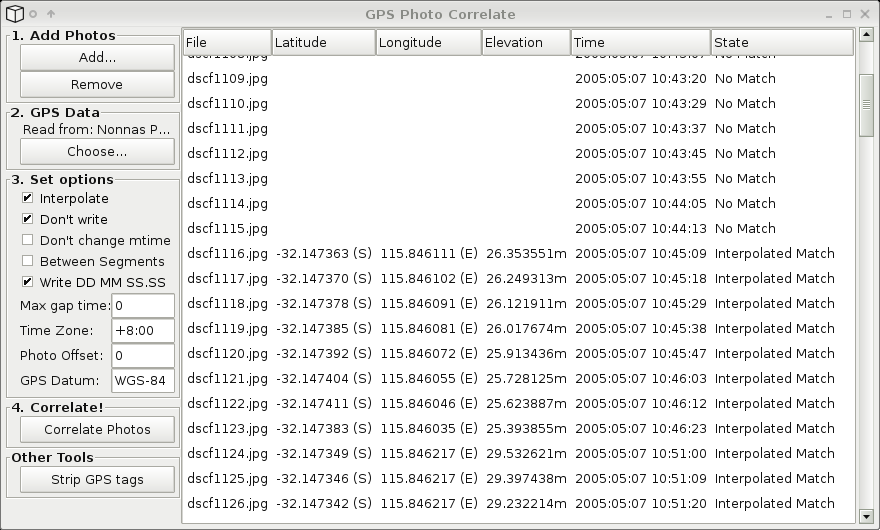
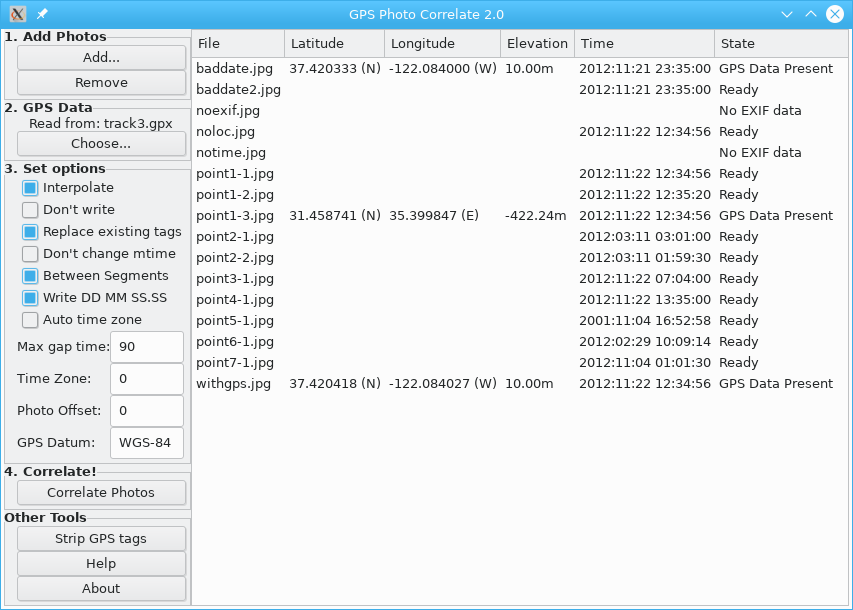
Update to git HEAD.

Changed region(s): [[0.0, 0.0, 1.0, 1.0]]

diff --git a/concepts.html b/concepts.html
@@ -12,9 +12,11 @@
 
 <h2>Step 1: Taking photos and recording GPS data.</h2>
 
-<p>Before you can correlate any photos with GPS data, you first have to have some photos and some GPS data. This generally involves walking/driving/going somewhere, taking photos, and taking a GPS (or GPS like device) with you.</p>
+<p>Before you can correlate any photos with GPS data, you first have to have some photos and some GPS data. This generally involves walking/driving/going somewhere, taking photos, and taking a GPS or smartphone tracking app with you.</p>
 
-<p>Most cheap GPS devices have a "tracklog" facility that record where you have been. The resolution of these tracks is widely variable - my <a href="http://www.garmin.com/products/etrex/">Garmin eTrex</a> GPS records up to 1600 data points, at around 20 metres between each point. This works out to travelling about 500 kilometres (by car) or 50 kilometres (on foot) before you run out of memory. (These numbers vary very much depending on many factors.)</p>
+<p>Just about all smartphones these days have GPS built-in and it just takes an tracking app to do the job. There are a multitude of apps for all popular smartphone platforms, including good free ones. They often store a track in GPX format that you can download to your computer and use directly. Some will upload your track to a cloud service that you can download easily from a web site.</p>
+
+<p>Another option is a ruggedized standalone GPS unit. Most of these have a "tracklog" facility that record where you have been. The resolution of these tracks is widely variable - my old Garmin eTrex GPS records up to 1600 data points, at around 20 metres between each point. This works out to travelling about 500 kilometres (by car) or 50 kilometres (on foot) before you run out of memory. (These numbers vary very much depending on many factors.)</p>
 
 <p>Other GPS devices will vary in their capacity. If you are using a GPS device made only for a computer, or have attached your GPS device to a computer, you may wish to log the data on the computer. In this case, you will probably end up logging the one second fixes, which results in a fair bit of data (nothing excessive), but very accurate results.</p>
 
@@ -22,29 +24,33 @@
 
 <p>Besides that, take photos as you normally would. The correlation program matches photos to GPS data by their timestamp, so it would be a good idea to synchronise the cameras time to the time from the GPS before you start taking photos. (Not the other way around: the GPS gets its time from the satellites, which means that it is probably correct... and most GPSs will not allow you to set their time, anyway).</p>
 
-<p>The photos will have to be tagged with "EXIF tags", which describe metadata about the photo, including the date and time. These tags are embedded in the photos themselves. That is pretty much standard for digital cameras nowadays, however, some very very very old digital cameras (like the ancient floppy-disk Sony Mavica that a family member owns) don't store EXIF tags. These will not work with this program. There are probably ways around this, though - but they are outside what I am talking about here. (Give me half a second, and I'd start talking about writing a script to grab... no, better stop there...)</p>
+<p>The photos will have to be tagged with "EXIF tags", which describe metadata about each photo, including the date and time it was taken. These tags are embedded in the photos themselves. That is pretty much standard for digital cameras nowadays, however, some very very very old digital cameras (like the ancient floppy-disk Sony Mavica that a family member owns) don't store EXIF tags. These will not work with this program. There are probably ways around this, though - but they are outside what I am talking about here. (Give me half a second, and I'd start talking about writing a script to grab... no, better stop there...)</p>
 
-<p>When you are finished the photo shoot, download the photos as normal and get ready. Mind that any permanent rotations or editing do not remove the EXIF tags.</p>
+<p>When you are finished the photo shoot, download the photos as normal and get ready. Mind that any permanent rotations or editing you do do not remove the EXIF tags.</p>
 
 <h3>What you need to know:</h3>
 
 <ul>
-<li><b>Synchronise your cameras time from the GPS time.</b> Don't ask, just do it. And do it just before your photo shoot.</li>
-<li><b>Use a GPS that has a tracklog capability.</b> Most do - although the quality/resolution varies.</li>
-<li><b>Take your GPS with you, and keep it close to the camera.</b> GPS is accurate down to several meters, so use your discretion.</li>
+<li><b>Synchronise your camera's time from the GPS time.</b> Don't ask, just do it. And do it just before your photo shoot. If you forget, take a picture of your GPS screen before you're done. You can calculate the time offset later by comparing the EXIF time with the time on the screen.</li>
+<li><b>Use a GPS or an app that has a tracklog capability.</b> Most do - although the quality/resolution varies.</li>
+<li><b>Take your GPS with you, and keep it close to the camera.</b> GPS is accurate down to several meters, so use your discretion as to what "close" means.</li>
 </ul>
 
 <hr>
 
 <h2>Step 2: Getting the GPS data ready.</h2>
 
-<p>The GPS correlate program accepts GPS data in the GPX format: an open XML format. The format is quite arbitrary, and, naturally, everyone has their own GPS file format. So, in that way, this program is no exception.</p>
+<p>The GPS correlate program accepts GPS data in the GPX format: an open XML format. The format is quite arbitrary, and, naturally, everyone has their own GPS file format. So, in that way, this program is no exception. But, since that's the only format it supports, you'll have to arrange that your track information is made available in a GPX file.</p>
 
-<p>Exactly how you will get the GPS data from a discrete device is very much device dependant. Many devices have serial cables or USB cables to download the data (although the USB cables are often glorified USB-to-serial converters). What format it will turn out as is also the big question. I personally recommend GPSBabel, which can convert between many formats (thus translating from whatever strange one your downloading method/program produces) and can also download from Garmin and Magellan GPS devices directly (so you can download straight to GPX and retain lots of useful metadata, like track segments).</p>
+<p>A smartphone app might have an export or share function to create a track file. Once you do that, you attach your phone to a computer and browse to the location with the file. Or, the app might upload your tracks to a cloud service (automatically or on request). In that case, you'll need to log in to the web site on your computer and use the download function.</p>
 
-<p>If you logged the GPS data with a computer... well, it could be any format, depending on how it is logged. One trick would be to log the NMEA sentences as they came from the GPS directly into a file. Once the logging is done, GPSBabel can convert these NMEA sentences directly into GPX format. Usually these are one second fixes, so this would yield very good results - however, lugging around a laptop to log the data might not be convenient. A PDA might be convenient, though...</p>
+<p>Exactly how you will get the GPS data from a discrete device is very much device dependant. Many devices have USB cables cables to download the data (although the USB cables are often glorified USB-to-serial converters). What format it will turn out as is also the big question. I personally recommend GPSBabel, which can convert between many formats (thus translating from whatever strange one your downloading method/program produces) and can also download from Garmin and Magellan GPS devices directly (so you can download straight to GPX and retain lots of useful metadata, like track segments).</p>
 
-<p>The other thing to know about GPX is that is stores data quite cleverly, separating tracks into "track segments". This can be explained quite simply with an example. When I drive through a tunnel with my GPS, it has no reception in the tunnel. My GPS records this lack of signal on the map by not showing a track between the points where I was in the tunnel. GPSBabel correctly reads this and enters this in the GPX file by separating the segments with "track segments". Prior to version 1.1, this program ignored track segments and just hauled out points and considered them to be a single track. So if a photo was taken in between the time where there was no GPS data, you would not get a correct answer (depending on the situation). Now, the program will not match a photo between track segments. You can, however, disable this functionality, and still match between track segments.</p>
+<p>If you logged the GPS data with a computer... well, it could be any format, depending on how it is logged. One trick would be to log the NMEA sentences as they came from the GPS directly into a file. Once the logging is done, GPSBabel can convert these NMEA sentences directly into GPX format. Usually these are one second fixes, so this would yield very good results - however, lugging around a laptop to log the data might not be convenient.</p>
+
+<p>The other thing to know about GPX is that is stores data quite cleverly, separating tracks into "track segments". This can be explained quite simply with an example. When I drive through a tunnel with my GPS, it has no reception in the tunnel. My GPS records this lack of signal on the map by not showing a track between the points where I was in the tunnel. GPSBabel correctly reads this and enters this in the GPX file by separating the segments with "track segments".</p>
+
+<p>Prior to version 1.1, this program ignored track segments and just hauled out points and considered them to be a single track. So if a photo was taken in between the time where there was no GPS data, you would not get a correct answer (depending on the situation). In current versions, the program will not match a photo between track segments. You can, however, choose to revert this behaviour. If the track was segmented during a period of steady, linear movement (like driving through a straight tunnel), then the interpolated position between segments will still end up being pretty accurate. Also, some apps will stop logging the position if you stay still for a while. The end of one segment will then be the same location as the beginning of the next.  In those cases it makes sense to interpolate between segments.</p>
 
 <h3>What you need to know:</h3>
 
@@ -59,15 +65,15 @@
 
 <h2>Step 3: Getting ready to correlate.</h2>
 
-<p>To correlate, you need photos and GPS data. I assume the last two steps would have resulted you with a series of JPEG files with EXIF tags, and a GPX file with a "tracklog" of where you have been when you took the photos.</p>
+<p>To correlate, you need photos and GPS data. I assume the last two steps would have resulted in a series of JPEG files with EXIF tags, and a GPX file with a "tracklog" of where you have been when you took the photos.</p>
 
-<p>The last thing you need to know is the timezone that the camera is set to. GPS data is always in UTC, so when we correlate the photos, we need to know how much to add or subtract to the photos time to make the photos time UTC. Just "know" this value, there are places to add this in in the programs.</p>
+<p>The last thing you need to know is the timezone that the camera is set to. GPS data is always in UTC, so when we correlate the photos, we need to know how much to add or subtract to the photos time to make the photo's time UTC. Just "know" this value; there are places to enter this in in the program.</p>
 
-<p>(This also assumes that the camera is set for local time where you are taking the photos. It is really arbitrary, so long as you know the difference between your cameras time and UTC. If you really wanted, just set the camera to UTC and be done with it... although that's not so friendly when you try to use the EXIF data for other things. Up to you.)</p>
+<p>(This also assumes that the camera is set for local time where you are taking the photos. It is really arbitrary, so long as you know the difference between your camera's time and UTC. If you really wanted, just set the camera to UTC and be done with it... although that's not so friendly when you try to use the EXIF data for other things. Up to you.)</p>
 
-<p>As an example, here in Perth, Western Australia, the timezone is +8:00. So that is the value that I use when correlating the photos.</p>
+<p>As an example, here in Perth, Western Australia, the timezone is +8:00. So that is the value that I use when correlating the photos.  But since version 2.0, you usually don't need to worry about time zones. The program will automatically choose one by assuming that the camera's time is the same as the computer's time. This breaks down when you go on vacation in another time zone and change the camera's time to match, then go home and correlate your photos. You'll be using the wrong time zone offset and correlation won't work properly. Just disable automatic time zone selection in this case and give the offset yourself.</p>
 
-<p>Since 1.5.4, there is an option to add an offset to the photo time to make it match up with GPS data. An example case is where you take a photo of your GPS showing the current time. You can use this to calculate the difference between the GPSs time and the photos time.</p>
+<p>There is an option to add an offset to the photo time to make it match up with GPS data. An example case is where you forget to set the camera clock so you take a photo of your GPS screen showing the current time. You can use this to calculate the difference between the GPS' time and the photos time.</p>
 
 <p>Example calculations:</p>
 <pre>GPS Time in Photo:  10:10:10
@@ -76,36 +82,37 @@ GPS - Photo:             +40
 
 GPS Time in Photo:  10:10:10
 Timestamp on Photo: 10:11:30
-GPS - Photo:             -80</pre>
+GPS - Photo:             -80
+</pre>
 
-<p>The value determined in the above examples becomes the "Photo offset" time, in seconds, which is added to the photos timestamp before the correlation is performed.</p>
+<p>The value determined in the above examples becomes the "Photo offset" time, in seconds, which is added to the photo's timestamp before the correlation is performed.</p>
 
 <h3>What you need to know:</h3>
 
 <ul>
 <li><b>The timezone the camera was set to when taking photos.</b> In hours and minutes, for example: +8:00.</li>
-<li><b>As of 1.5.4, you can fine tune the offset between the GPS time and the Photos time.</b> Use the photo offset function to set this.</li>
+<li><b>You can fine tune the offset between the GPS time and the photo's time.</b> Use the photo offset function to set this.</li>
 </ul>
 
 <hr>
 
 <h2>Step 4: Correlation.</h2>
 
-<p>Time to correlate! Exactly how this is performed depends on whether or not you use the <a href="gui.html">GUI version</a> (prettier) or the <a href="command.html">command line version</a> (scriptable).</p>
+<p>Time to correlate! Exactly how this is performed depends on whether or not you use the <a href="gui.html">GUI version</a> (prettier) or the <a href="gpscorrelate.html">command line version</a> (scriptable).</p>
 
-<p>Now there are a few options to consider when deciding how to allow the program to determine exactly the location at which the photo was taken. The program works down to the second. If you have one second GPS fixes available, then the photos will be matched exactly with a point having exactly the same timestamp. As this is the accuracy of the camera, and the accuracy of the GPS - you can not get more accurate than this with the given equipment.</p>
+<p>Now there are a few options to consider when deciding how to allow the program to determine exactly the location at which the photo was taken. The program works down to the second. If you have one second GPS fixes available, then the photos will be matched exactly with a point having exactly the same timestamp. As this is the accuracy of the camera, and the accuracy of the GPS - you can not get much more accurate than this with the given equipment.</p>
 
-<p>When there is less than one second data available, there are a few options available to make the results more accurate. By default, if the program finds photos between points, it will linearly interpolate between the points to determine the correct location of the photo.</p>
+<p>When there is less than one second data rate available, there are a few options available to make the results more accurate. By default, if the program finds photos between points, it will linearly interpolate between the points to determine the correct location of the photo.</p>
 
-<p>You may not wish to allow the interpolation, for whatever reason. If you disable interpolation, then the program will instead "round" to the nearest point. That means that the photo will be set to have the location that is the recorded closest fix in time. (Rounding down if you manage to exactly center it.)</p>
+<p>You may not wish to allow the interpolation, for whatever reason. If you disable interpolation, then the program will instead "round" to the nearest point. That means that the photo will be set to have the location that is the recorded closest fix in time (rounding down if you manage to exactly center it).</p>
 
-<p>The final major setting has many names, of which I can not decide the best one for. Sometimes I call this "feather time", and other times I call this "max distance". In any event, this setting, specified in seconds, defines the furthest time from any recorded GPS point that a photo will be matched. For example, if two GPS data points are 15 minutes apart, and you took a photo in the middle, you may not wish to match this, as the camera might well have been somewhere else. In this case, set the "feather time" to the maximum time from a recorded point that you want a photo matched. In the above example, you might set it to 60 seconds, if you know how often your GPS is likely to take another data point.</p>
+<p>The final major setting has many names, of which I can not decide the best one for. Sometimes I call this "feather time", and other times I call this "max distance". In any event, this setting, specified in seconds, defines the furthest time from any recorded GPS point that a photo will be matched. For example, if two GPS data points are 15 minutes apart, and you took a photo in the middle, you may not wish to match this, as the camera might well have been somewhere else. In this case, set the "max distance" to the maximum time from a recorded point that you want a photo matched. In the above example, you might set it to 60 seconds, if you know how often your GPS is likely to take another data point. Some GPS trackers stop recording location points if you stop moving, in which case you can still get accurate correlation results even with a very large "max distance".</p>
 
 <h3>What you need to know:</h3>
 
 <ul>
 <li><b>You can use the <a href="gui.html">GUI version</a> if that suits you better.</b></li>
-<li><b>Or there is always the dependable <a href="command.html">command line</a> version.</b></li>
+<li><b>Or there is always the dependable <a href="gpscorrelate.html">command line</a> version.</b></li>
 <li><b>By default, the program linearly interpolates.</b> If disabled, it rounds to the nearest point.</li>
 <li><b>"Feather time" or "max distance", in seconds</b> is the maximum time from a data point that a photo will be matched.</li>
 </ul>

diff --git a/fr/gui.html b/fr/gui.html
@@ -12,47 +12,47 @@
 
 <h2>La fenêtre de correlation</h2>
 
-<img src="https://raw.github.com/freefoote/gpscorrelate/master/doc/corr.png" alt="La fenêtre de correlation" width="880" height="530">
+<img src="corr.png" alt="La fenêtre de correlation" width="968" height="610">
 
 <h2>Mode d'emploi de la fenêtre de correlation</h2>
 
 <h3>Étape 1 : ajouter des photos</h3>
 
-<p>Le bouton <b>«&nbsp;Add photos…&nbsp;»</b> permet de sélectionner des photos à ajouter à la liste. Vous pouvez sélectionner plusieurs photos en une seule fois à partir de la boîte de dialogue qui s’affiche. Une fois que vous avez choisi les photos que vous voulez, cliquez sur «&nbsp;Ouvrir&nbsp;» pour les sélectionner. Leurs balises EXIF seront examinées puis elles seront ajoutées à la liste. Si elles ont déjà des données GPS EXIF, celles-ci seront affichées dans la fenêtre. Sinon, vous verrez simplement l’horodatage des photos et leur statut.</p>
+<p>Le bouton <b>«&nbsp;Ajouter des photos…&nbsp;»</b> permet de sélectionner des photos à ajouter à la liste. Vous pouvez sélectionner plusieurs photos en une seule fois à partir de la boîte de dialogue qui s’affiche. Une fois que vous avez choisi les photos que vous voulez, cliquez sur «&nbsp;Ouvrir&nbsp;» pour les sélectionner. Leurs balises EXIF seront examinées puis elles seront ajoutées à la liste. Si elles ont déjà des données GPS EXIF, celles-ci seront affichées dans la fenêtre. Sinon, vous verrez simplement l’horodatage des photos et leur statut.</p>
 
-<p>Sélectionner une photo ou plusieurs photos dans la liste sur la droite et cliquer sur <b>«&nbsp;Remove&nbsp;»</b> supprime celle(s)-ci de la liste.</p>
+<p>Sélectionner une photo ou plusieurs photos dans la liste sur la droite et cliquer sur <b>«&nbsp;Retirer&nbsp;»</b> supprime celle(s)-ci de la liste.</p>
 
 <h3>Étape 2: Les données GPS</h3>
 
-<p>Cliquer sur le bouton <b>«&nbsp;Choose…&nbsp;»</b> fait apparaître une boîte de dialogue demandant de sélectionner le fichier GPX à partir duquel le programme peut lire des données GPS. Une fois sélectionné il est chargé en mémoire. Pendant le chargement s'affiche une boîte de dialogue vous demandant de patienter puis, le chargement terminé, le nom du fichier apparaît au-dessus du bouton.</p>
+<p>Cliquer sur le bouton <b>«&nbsp;Choisir…&nbsp;»</b> fait apparaître une boîte de dialogue demandant de sélectionner le fichier GPX à partir duquel le programme peut lire des données GPS. Une fois sélectionné il est chargé en mémoire. Pendant le chargement s'affiche une boîte de dialogue vous demandant de patienter puis, le chargement terminé, le nom du fichier apparaît au-dessus du bouton.</p>
 
 <h3>Étape 3: Établir les options</h3>
 
-<p>La case <b>«&nbsp;Interpolate&nbsp;»</b> définit si oui ou non le programme peut interpoler entre les points GPS. Par défaut, cette case est cochée. Sa désactivation implique au contraire le choix du point GPS le plus proche.</p>
+<p>La case <b>«&nbsp;Interpoler&nbsp;»</b> définit si oui ou non le programme peut interpoler entre les points GPS. Par défaut, cette case est cochée. Sa désactivation implique au contraire le choix du point GPS le plus proche.</p>
 
-<p>La case <b>«&nbsp;Don't write&nbsp;»</b> si elle est cochée, empêche l’enregistrement des tags EXIF GPS dans les photos. Cependant, la localisation est affichée dans la liste, ce qui permet de vérifier préalablement les résultats de la corrélation.</p>
+<p>La case <b>«&nbsp;Ne pas écrire&nbsp;»</b> si elle est cochée, empêche l’enregistrement des tags EXIF GPS dans les photos. Cependant, la localisation est affichée dans la liste, ce qui permet de vérifier préalablement les résultats de la corrélation.</p>
 
-<p>La case <b>«&nbsp;Don't change mtime&nbsp;»</b> si cochée, inhibe la mise à jour de la date de modification des fichiers quand les données EXIF GPS sont enregistrées.</p>
+<p>La case <b>«&nbsp;Ne pas changer le mtime&nbsp;»</b> si cochée, inhibe la mise à jour de la date de modification des fichiers quand les données EXIF GPS sont enregistrées.</p>
 
-<p>La case <b>«&nbsp;Between Segments&nbsp;»</b> si elle est cochée, ignore les segments de piste, et permet la correspondance des photos entre des points de segments de piste différents. Normalement les segments de piste correspondent à différentes sessions d’enregistrement du GPS, et l’interpolation entre des segments de piste pourrait bien donner une position ne correspondant à aucune données.</p>
+<p>La case <b>«&nbsp;Entre les segments&nbsp;»</b> si elle est cochée, ignore les segments de piste, et permet la correspondance des photos entre des points de segments de piste différents. Normalement les segments de piste correspondent à différentes sessions d’enregistrement du GPS, et l’interpolation entre des segments de piste pourrait bien donner une position ne correspondant à aucune données.</p>
 
-<p>La case <b>«&nbsp;Write DD&nbsp;MM&nbsp;SS.SS&nbsp;»</b> si décochée, va forcer l’écriture de la Longitude et de la Latitude selon l'ancien format DD&nbsp;MM.MM. La valeur par défaut est maintenant d’écrire en DD&nbsp;MM&nbsp;SS.SS</p>
+<p>La case <b>«&nbsp;Écrire en DD&nbsp;MM&nbsp;SS.SS&nbsp;»</b> si décochée, va forcer l’écriture de la Longitude et de la Latitude selon l'ancien format DD&nbsp;MM.MM. La valeur par défaut est maintenant d’écrire en DD&nbsp;MM&nbsp;SS.SS</p>
 
-<p>La zone <b>«&nbsp;Max gap time&nbsp;»</b> indique l’écart de temps maximum entre un point GPS et une photo pour établir une corrélation. Exprimé en secondes.</p>
+<p>La zone <b>«&nbsp;Écart de temps maximum&nbsp;»</b> indique l’écart de temps maximum entre un point GPS et une photo pour établir une corrélation. Exprimé en secondes.</p>
 
-<p>La zone <b>«&nbsp;Time Zone&nbsp;»</b> spécifie le fuseau horaire utilisé lors de la prise des photos, de sorte que les données de temps de celles-ci puissent être ajustées pour correspondre aux données GPS.</p>
+<p>La zone <b>«&nbsp;Fuseau horaire&nbsp;»</b> spécifie le fuseau horaire utilisé lors de la prise des photos, de sorte que les données de temps de celles-ci puissent être ajustées pour correspondre aux données GPS.</p>
 
-<p>La zone <b>«&nbsp;Photo Offset&nbsp;»</b> spécifie un décalage en nombre de secondes à ajouter aux photos pour les faire correspondre aux données GPS (synchronisation). Voir la page <a href="concepts.html">Documentation de GPS Correlate&nbsp;: les concepts</a> pour comprendre l’intérêt de ce paramètre.</p>
+<p>La zone <b>«&nbsp;Décalage des photos&nbsp;»</b> spécifie un décalage en nombre de secondes à ajouter aux photos pour les faire correspondre aux données GPS (synchronisation). Voir la page <a href="concepts.html">Documentation de GPS Correlate&nbsp;: les concepts</a> pour comprendre l’intérêt de ce paramètre.</p>
 
-<p>La zone <b>«&nbsp;GPS Datum&nbsp;»</b> spécifie le système de référence de la source de données GPS et fait l’objet d’un tag EXIF. Par défaut il s'agit du «&nbsp;WGS-84&nbsp;», et ne devrait pas être changé, dans la mesure où le format GPX n’est pas censé contenir autre chose. N’utilisez cette option qu’en toute connaissance de cause.</p>
+<p>La zone <b>«&nbsp;Datum du GPS&nbsp;»</b> spécifie le système de référence de la source de données GPS et fait l’objet d’un tag EXIF. Par défaut il s'agit du «&nbsp;WGS-84&nbsp;», et ne devrait pas être changé, dans la mesure où le format GPX n’est pas censé contenir autre chose. N’utilisez cette option qu’en toute connaissance de cause.</p>
 
 <h3>Étape 4: Corréler&nbsp;!</h3>
 
-<p>Le bouton <b>«&nbsp;Correlate Photos&nbsp;»</b> permet de démarrer la procédure de corrélation sur les photos sélectionnées avec les données GPS chargées. Si aucune photo n’est sélectionnée, ou s’il n’y a pas de données GPS chargées, une erreur est générée. Dans le cas contraire les photos sont corrélées et vous pouvez voir leur changement de statut dans la liste pendant que le processus se poursuit. Si des photos sont localisées, leurs emplacements sont également indiqués dans la liste des photos.</p>
+<p>Le bouton <b>«&nbsp;Corrélation des photos&nbsp;»</b> permet de démarrer la procédure de corrélation sur les photos sélectionnées avec les données GPS chargées. Si aucune photo n’est sélectionnée, ou s’il n’y a pas de données GPS chargées, une erreur est générée. Dans le cas contraire les photos sont corrélées et vous pouvez voir leur changement de statut dans la liste pendant que le processus se poursuit. Si des photos sont localisées, leurs emplacements sont également indiqués dans la liste des photos.</p>
 
 <h3>Autre outil</h3>
 
-<p>Le bouton <b>«&nbsp;Strip GPS tags&nbsp;»</b> permet de supprimer des balises GPS sur les photos sélectionnées.</p>
+<p>Le bouton <b>«&nbsp;Suprimer les tags GPS&nbsp;»</b> permet de supprimer des balises GPS sur les photos sélectionnées.</p>
 
 <h3>Enregistrement des préférences</h3>
 

diff --git a/gpscorrelate.html b/gpscorrelate.html
@@ -10,8 +10,8 @@
 </head>
 <body bgcolor="white" text="black" link="#0000FF" vlink="#840084"
 alink="#0000FF">
-<div class="refentry"><a name="idp1370253468" id=
-"idp1370253468"></a>
+<div class="refentry"><a name="idp1349269428" id=
+"idp1349269428"></a>
 <div class="titlepage"></div>
 <div class="refnamediv">
 <h2>Name</h2>
@@ -57,8 +57,8 @@ filling EXIF fields</p>
 --help</p>
 </div>
 </div>
-<div class="refsect1"><a name="idp1370387780" id=
-"idp1370387780"></a>
+<div class="refsect1"><a name="idp1367581308" id=
+"idp1367581308"></a>
 <h2>DESCRIPTION</h2>
 <p>This manual page documents the <span class=
 "command"><strong>gpscorrelate</strong></span> command. There is
@@ -74,10 +74,11 @@ to as <span class="emphasis"><em>correlation</em></span>.</p>
 taken (with a 1-second granularity) the GPS data are stored
 unmodified in EXIF fields. If they are not, linear interpolation of
 GPS data available at moments before and after the image was taken
-can be used.</p>
+can be used. A measure of the approximate accuracy of the GPS
+location reading is preserved when written into the image.</p>
 </div>
-<div class="refsect1"><a name="idp1370390404" id=
-"idp1370390404"></a>
+<div class="refsect1"><a name="idp1367584052" id=
+"idp1367584052"></a>
 <h2>OPTIONS</h2>
 <p>These programs follow the usual <acronym class=
 "acronym">GNU</acronym> command line syntax, with long options
@@ -282,8 +283,8 @@ copyright information.</p>
 </dl>
 </div>
 </div>
-<div class="refsect1"><a name="idp1373388324" id=
-"idp1373388324"></a>
+<div class="refsect1"><a name="idp1368165396" id=
+"idp1368165396"></a>
 <h2>EXAMPLES</h2>
 <p>To correlate all photos in a directory taken in western Europe
 in the summer (i.e., UTC-2):</p>
@@ -320,8 +321,8 @@ M&uuml;nster:</p>
 <p><strong class="userinput"><code>gpscorrelate -l
 48.398620,9.991417,522 -z 2 ulm.jpg</code></strong></p>
 </div>
-<div class="refsect1"><a name="idp1373395644" id=
-"idp1373395644"></a>
+<div class="refsect1"><a name="idp1368172668" id=
+"idp1368172668"></a>
 <h2>EXIT STATUS</h2>
 <p><span class="command"><strong>gpscorrelate</strong></span>
 returns <span class="errorcode">0</span> in case of success,
@@ -330,8 +331,8 @@ read or write error) and <span class="errorcode">2</span> in case
 of minor error (such as the given GPS track not covering the time
 of an image).</p>
 </div>
-<div class="refsect1"><a name="idp1373397652" id=
-"idp1373397652"></a>
+<div class="refsect1"><a name="idp1368174676" id=
+"idp1368174676"></a>
 <h2>SEE ALSO</h2>
 <p><span class="citerefentry"><span class=
 "refentrytitle">gpsd</span>(1)</span>, <span class=
@@ -345,8 +346,8 @@ of an image).</p>
 the filesystem at <code class=
 "filename">/usr/local/share/doc/gpscorrelate</code>.</p>
 </div>
-<div class="refsect1"><a name="idp1373400420" id=
-"idp1373400420"></a>
+<div class="refsect1"><a name="idp1368177444" id=
+"idp1368177444"></a>
 <h2>LICENSE</h2>
 <p>This manual page was initially written by Stefano Zacchiroli
 <code class="email">&lt;<a class="email" href=

diff --git a/gui.html b/gui.html
@@ -12,7 +12,7 @@
 
 <h2>The Correlation Window</h2>
 
-<img src="corr.png" alt="The Correlation Window, 89,363 bytes" width="880" height="530">
+<img src="corr.png" alt="The Correlation Window" width="853" height="610">
 
 <h2>How to use the Correlation Window</h2>
 
@@ -40,9 +40,11 @@
 
 <p>The <b>"Write DD MM SS.SS"</b> checkbox, if un-checked, will force the pre 1.5.3 behaviour of writing Longitude and Latitude as DD MM.MM values. The default is now to write values in DD MM SS.SS.</p>
 
+<p>The <b>"Auto time zone"</b> checkbox, if checked, will choose an appropriate value for "Time Zone", based on the local time zone and the time of the first photo in the list to be correlated.</p>
+
 <p>The <b>"Max gap time"</b> box specifies the maximum distance from a point that a photo will be matched. In seconds.</p>
 
-<p>The <b>"Time Zone"</b> box specifies the time zone that the photos were taken in, so that the times of the photos can be adjusted to match the GPS data.</p>
+<p>The <b>"Time Zone"</b> box specifies the time zone that the photos were taken in so that the times of the photos can be adjusted to match the GPS data. The format is hours from UTC or HH:MM and may be negative. This can only be specified if "Auto time zone" is unset.</p>
 
 <p>The <b>"Photo Offset"</b> box specifies the number of seconds to add to the photos time to match the GPS data. See the <a href="concepts.html">GPS Correlate Concepts</a> documentation to understand this value.</p>
 
@@ -56,9 +58,13 @@
 
 <p>The <b>"Strip GPS tags"</b> button will remove GPS tags from the selected photos.</p>
 
+<p>The <b>"Help"</b> button will show this documentation.</p>
+
+<p>The <b>"About"</b> button will show basic information about the program.</p>
+
 <h3>Saving Settings</h3>
 
-<p>As of 1.5.4, when you exit the GUI program, it will save your settings to ~/.gpscorrelaterc. These will be reloaded next time you start gpscorrelate. The command line version does not make use of this file.</p>
+<p>As of 1.5.4, when you exit the GUI program, it will save your settings to ~/.config/.gpscorrelaterc (or ~/.gpscorrelaterc). These will be reloaded next time you start gpscorrelate. The command line version does not make use of this file.</p>
 
 <hr>
 

diff --git a/index.html b/index.html
@@ -42,19 +42,23 @@ to your computer along with the photos, then use gpscorrelate to combine the two
 <h2>Source Code</h2>
 
 <p>
+<a href="https://travis-ci.org/dfandrich/gpscorrelate"><img src="https://travis-ci.org/dfandrich/gpscorrelate.svg?branch=master" alt="Travis Continuous Integration Status"></a>
+<a href="https://ci.appveyor.com/project/dfandrich/gpscorrelate"><img src="https://ci.appveyor.com/api/projects/status/q9ooesujljat3ra7/branch/master?svg=true" alt="AppVeyor Continuous Integration Status"></a>
+<a href="https://cirrus-ci.com/github/dfandrich/gpscorrelate"><img src="https://api.cirrus-ci.com/github/dfandrich/gpscorrelate.svg?branch=master" alt="Cirrus Continuous Integration Status"></a>
+<a href="https://coveralls.io/github/dfandrich/gpscorrelate"><img src="https://coveralls.io/repos/github/dfandrich/gpscorrelate/badge.svg?branch=master" alt="Code coverage status"></a>
+</p>
+
+<p>
 Source code is available from the
 <a href="https://github.com/dfandrich/gpscorrelate">Github project</a>.
-<a href="https://travis-ci.org/dfandrich/gpscorrelate"><img src="https://travis-ci.org/dfandrich/gpscorrelate.svg?branch=master" alt="Travis Continuous Build Status"></a>
-<a href="https://ci.appveyor.com/project/dfandrich/gpscorrelate"><img src="https://ci.appveyor.com/api/projects/status/q9ooesujljat3ra7/branch/master?svg=true" alt="AppVeyor Continuous Build Status"></a>
-<a href="https://cirrus-ci.com/github/dfandrich/gpscorrelate"><img src="https://api.cirrus-ci.com/github/dfandrich/gpscorrelate.svg?branch=master" alt="Cirrus Continuous Build Status"></a>
-<a href="https://coveralls.io/github/dfandrich/gpscorrelate"><img src="https://coveralls.io/repos/github/dfandrich/gpscorrelate/badge.svg?branch=master" alt="Code coverage status"></a>
+Download the <a href="https://github.com/dfandrich/gpscorrelate/releases/latest">latest release</a>.
 </p>
 
 <h2>Bug Reports</h2>
 
 <p>
-If you've found a problem with gpscorrelate, please open an
-<a href="https://github.com/dfandrich/gpscorrelate/issues">issue</a>.</p>
+If you've found a problem with gpscorrelate, please
+<a href="https://github.com/dfandrich/gpscorrelate/issues">open an issue</a>.</p>
 
 <h2>Important Note for users before 1.5.2</h2>
 

diff --git a/fr/index.html b/fr/index.html
@@ -19,6 +19,20 @@
 <li><a href="gui.html">Utilisation du client  en version graphique</a></li>
 </ul>
 
+<h2>Code source</h2>
+
+<p>
+<a href="https://travis-ci.org/dfandrich/gpscorrelate"><img src="https://travis-ci.org/dfandrich/gpscorrelate.svg?branch=master" alt="Travis Continuous Integration Status"></a>
+<a href="https://ci.appveyor.com/project/dfandrich/gpscorrelate"><img src="https://ci.appveyor.com/api/projects/status/q9ooesujljat3ra7/branch/master?svg=true" alt="AppVeyor Continuous Integration Status"></a>
+<a href="https://cirrus-ci.com/github/dfandrich/gpscorrelate"><img src="https://api.cirrus-ci.com/github/dfandrich/gpscorrelate.svg?branch=master" alt="Cirrus Continuous Integration Status"></a>
+<a href="https://coveralls.io/github/dfandrich/gpscorrelate"><img src="https://coveralls.io/repos/github/dfandrich/gpscorrelate/badge.svg?branch=master" alt="Code coverage status"></a>
+</p>
+
+<p>
+Le code source est disponible sur
+<a href="https://github.com/dfandrich/gpscorrelate">Github</a>.
+Veuillez télécharger <a href="https://github.com/dfandrich/gpscorrelate/releases/latest">la dernière version</a>.</p>
+
 <h2>Note importante pour les utilisateurs de versions antérieures à 1.5.2</h2>
 
 <p>Avant version 1.5.2, gpscorrelate souffrait d’un bug qui provoquait une erreur dans la préhension des dates. Le résultat était un décalage des mois (janvier à la place de février…décembre à la place de janvier).</p>
